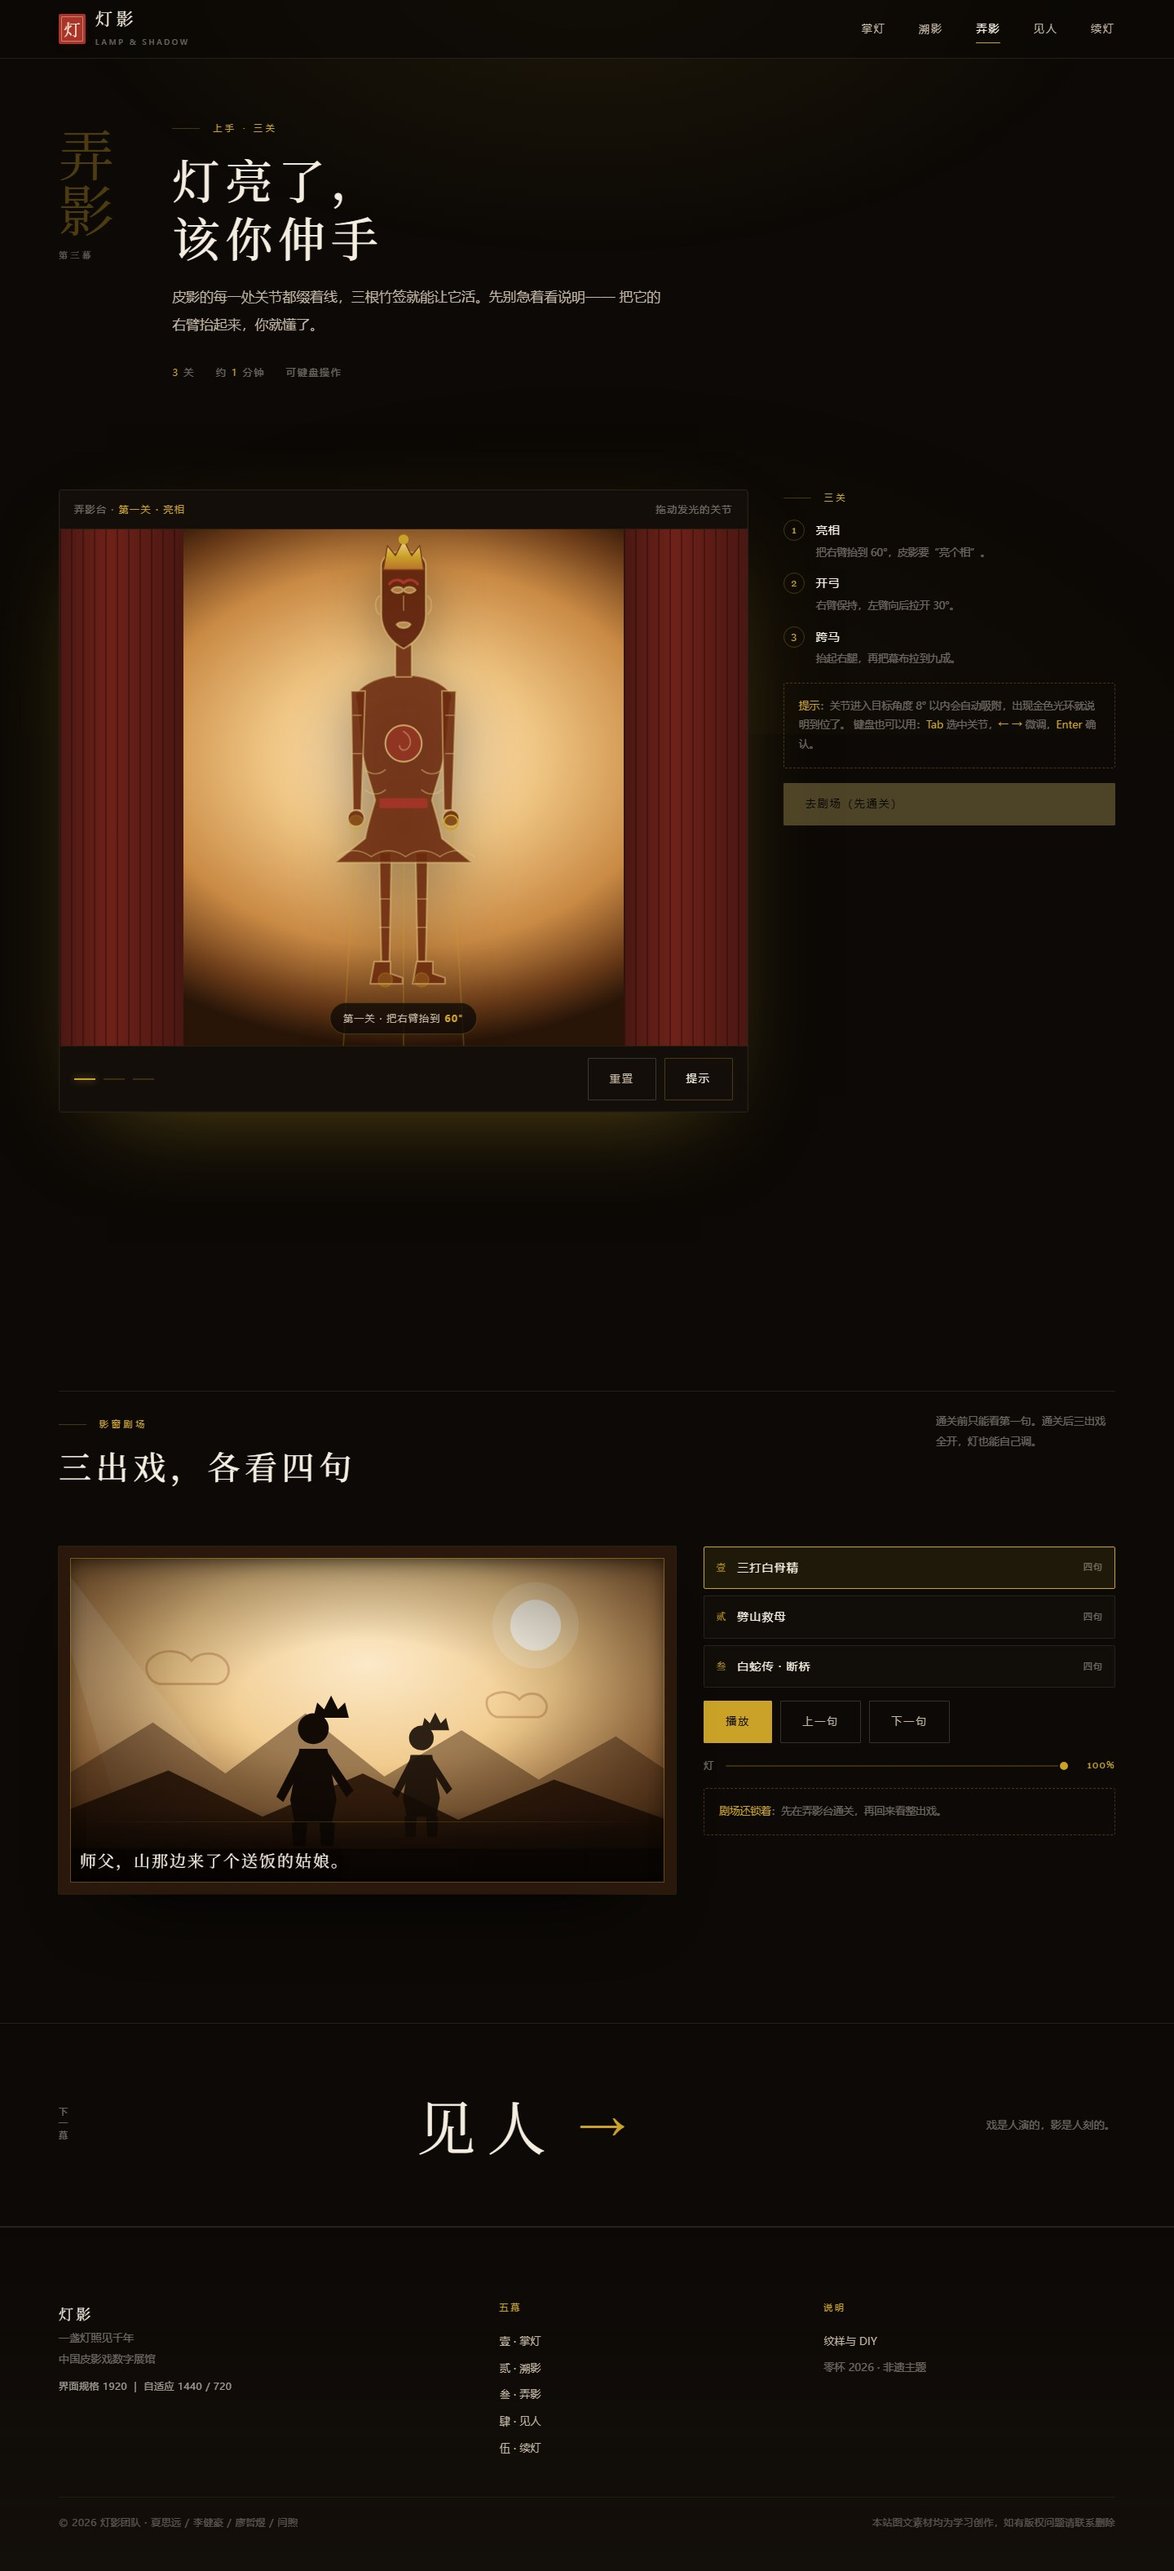
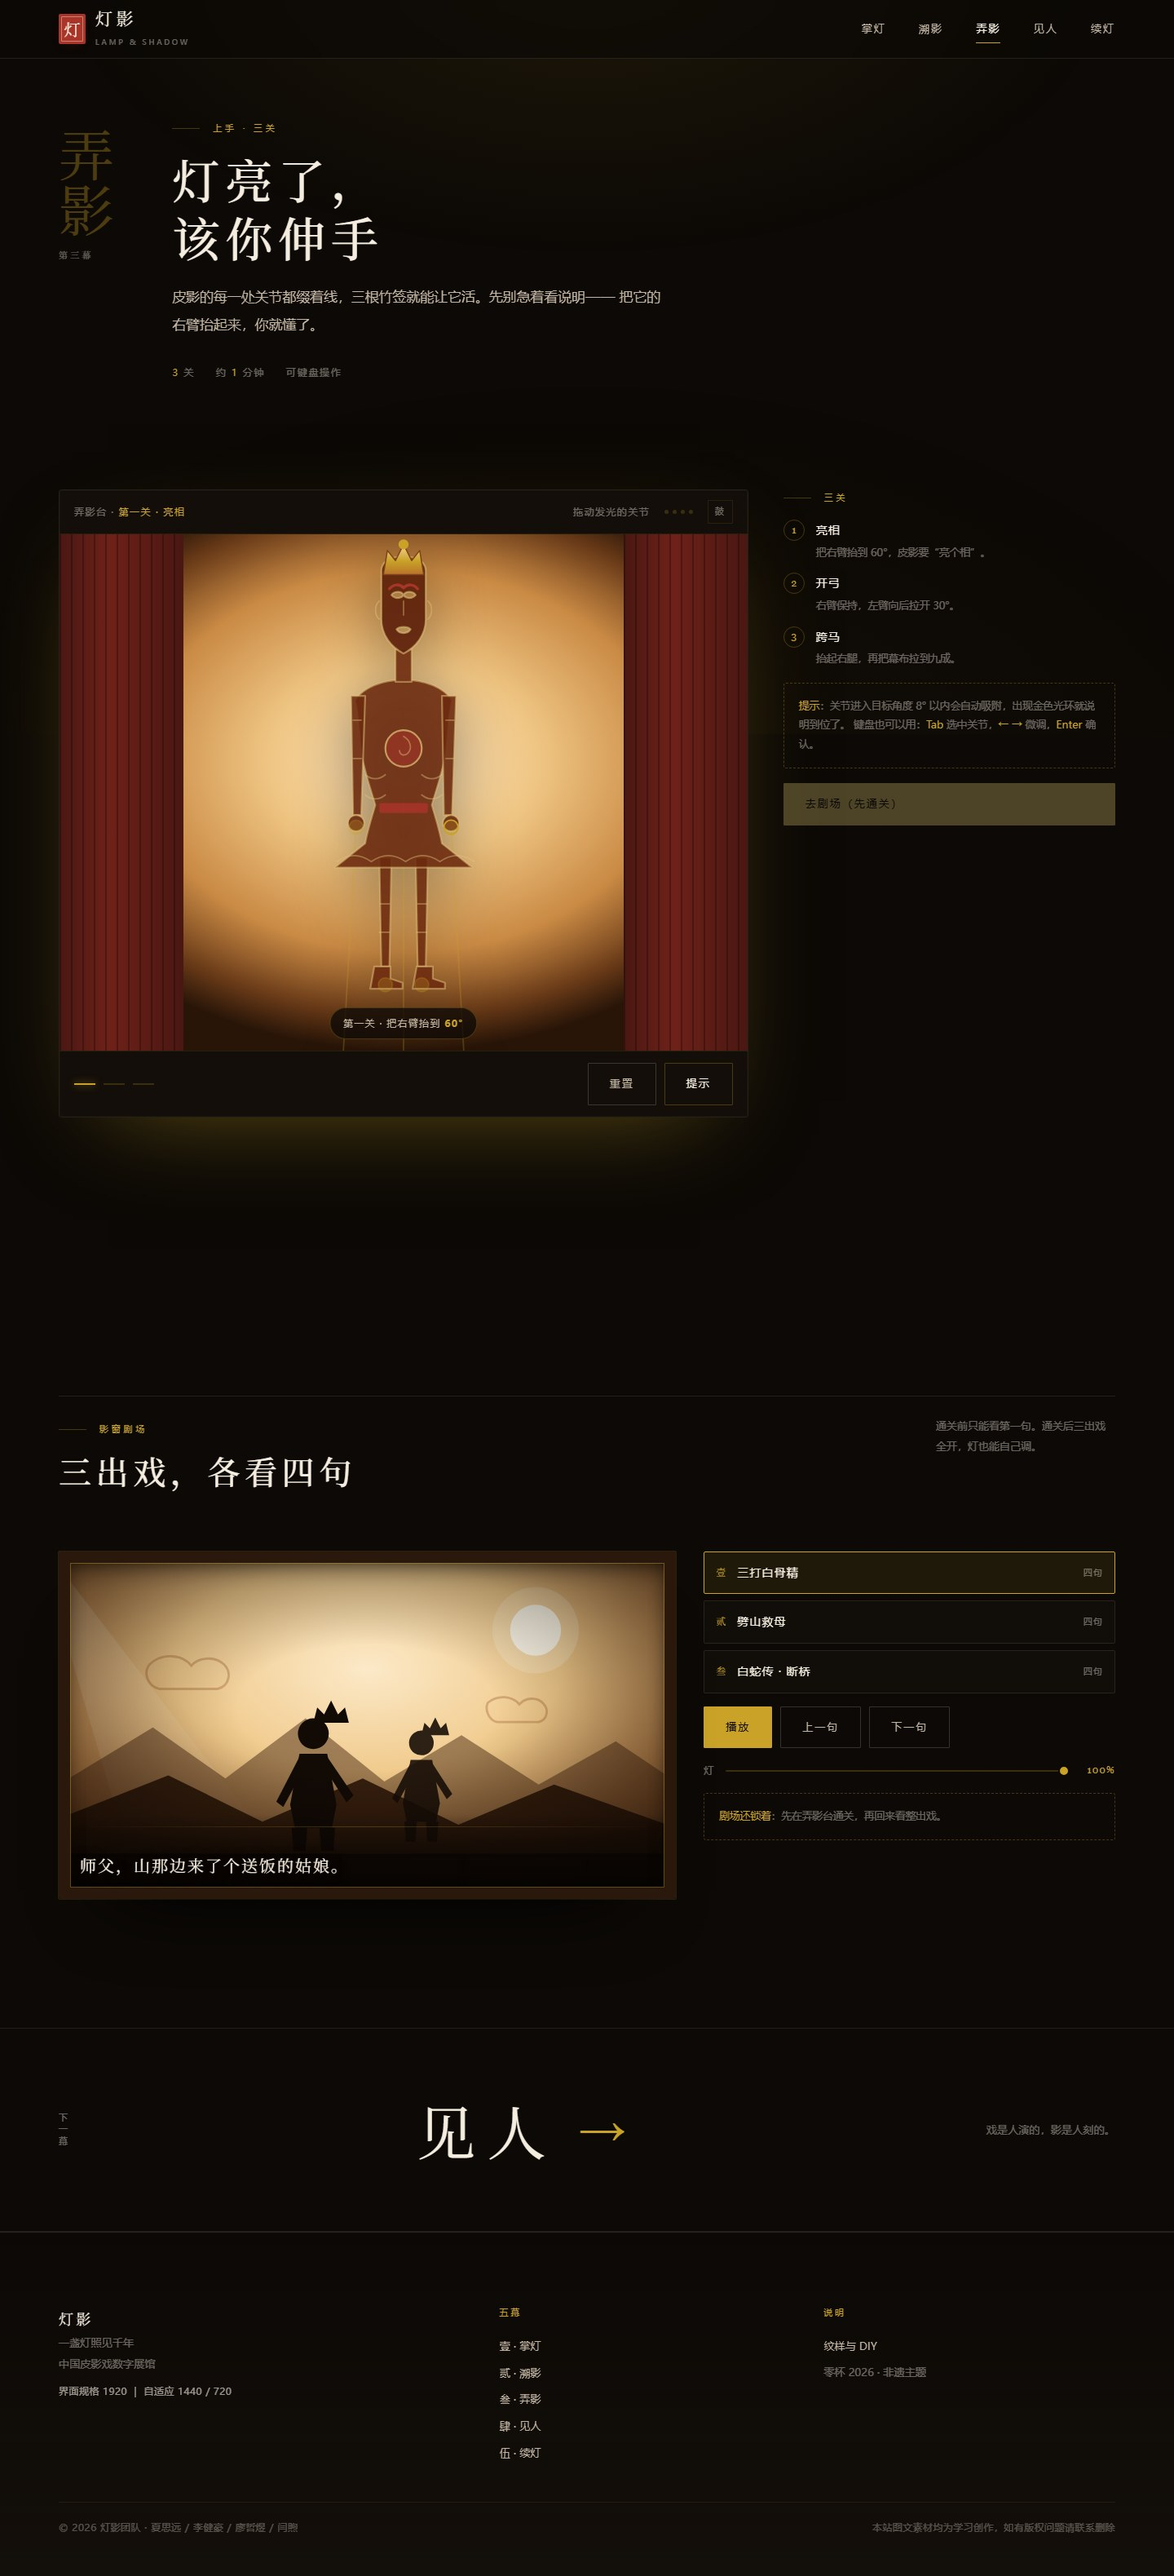
feat: 弄影台鼓点判定与评级结算
- 新增 90BPM 拍点时钟：四拍指示灯 + 可开关的 Web Audio 合成鼓声（无音频文件）
- 每关按与最近鼓点的时差判定 准(<=120ms)/良(<=280ms)/失，连击累加加分
- 结算按三关成绩评甲乙丙三等，结果写入 localStorage.playResult
- 判定用绝对浮层显示大字 + 连击数，1 秒后自动淡出
- 回归：30 组审计 0 报错 0 溢出；键盘通关 passed=true，实测 2 准 1 良 = 290 分乙等

diff --git a/web/assets/js/stage.js b/web/assets/js/stage.js
@@ -23,11 +23,21 @@
   var joints = Array.prototype.slice.call(svg.querySelectorAll(".joint"));
   var stickArmL = document.getElementById("stickArmL");
   var stickArmR = document.getElementById("stickArmR");
+  var beatPips = document.getElementById("beatPips");
+  var soundBtn = document.getElementById("soundBtn");
+  var judgeEl = document.getElementById("judge");
+  var finalBox = document.getElementById("stageFinal");
+  var finalRank = document.getElementById("finalRank");
+  var finalNote = document.getElementById("finalNote");
 
   var SNAP = 8;            /* 吸附阈值（度） */
   var CURTAIN_TARGET = 88; /* 第三关：幕布拉开到 88% */
   var CURTAIN_START = 64;  /* 初始两侧各留 18% 作为台口 */
-  var state = { level: 0, rot: {}, open: CURTAIN_START, passed: false, busy: false };
+  var BEAT_MS = 667;       /* 90 BPM，一拍 667ms */
+  var state = {
+    level: 0, rot: {}, open: CURTAIN_START, passed: false, busy: false,
+    sound: false, grades: [], combo: 0, score: 0
+  };
 
   var LEVELS = [
     {
@@ -105,6 +115,76 @@
 
   function currentLevel() { return LEVELS[state.level]; }
 
+  /* ---------- 鼓点与判定 ---------- */
+  var beatStart = 0, beatTimer = null, beatCount = 0, audioCtx = null;
+
+  function paintBeat(n) {
+    if (!beatPips) return;
+    var pips = beatPips.children;
+    for (var i = 0; i < pips.length; i++) {
+      pips[i].classList.toggle("is-on", i === (n % 4));
+    }
+  }
+
+  function startBeat() {
+    if (beatStart) return;
+    beatStart = performance.now();
+    paintBeat(0);
+    beatTimer = window.setInterval(function () {
+      beatCount += 1;
+      paintBeat(beatCount);
+      clickTick(beatCount % 4 === 0);
+    }, BEAT_MS);
+  }
+
+  /* 距离最近一拍的时间差（毫秒） */
+  function beatPhase() {
+    if (!beatStart) return 999;
+    var t = (performance.now() - beatStart) % BEAT_MS;
+    return Math.min(t, BEAT_MS - t);
+  }
+
+  function clickTick(strong) {
+    if (!state.sound || !audioCtx) return;
+    var t = audioCtx.currentTime;
+    var osc = audioCtx.createOscillator();
+    var gain = audioCtx.createGain();
+    osc.type = "triangle";
+    osc.frequency.setValueAtTime(strong ? 880 : 640, t);
+    osc.frequency.exponentialRampToValueAtTime(strong ? 520 : 420, t + 0.09);
+    gain.gain.setValueAtTime(0.0001, t);
+    gain.gain.exponentialRampToValueAtTime(strong ? 0.09 : 0.05, t + 0.01);
+    gain.gain.exponentialRampToValueAtTime(0.0001, t + 0.13);
+    osc.connect(gain);
+    gain.connect(audioCtx.destination);
+    osc.start(t);
+    osc.stop(t + 0.15);
+  }
+
+  function showJudge(grade) {
+    if (!judgeEl) return;
+    judgeEl.className = "judge" + (grade === "准" ? " is-perfect" : grade === "失" ? " is-miss" : "");
+    judgeEl.innerHTML = "<b>" + grade + "</b>" + (state.combo > 1 ? "<span>连 " + state.combo + "</span>" : "");
+    void judgeEl.offsetWidth;
+    judgeEl.classList.add("is-show");
+  }
+
+  /* 每吸附一个关节判定一次：离鼓点越近分越高 */
+  function judgeSnap(name) {
+    startBeat();
+    var d = beatPhase();
+    var grade = d <= 120 ? "准" : d <= 280 ? "良" : "失";
+    state.grades.push({ name: name, grade: grade });
+    if (grade === "失") {
+      state.combo = 0;
+    } else {
+      state.combo += 1;
+    }
+    state.score += grade === "准" ? 100 : grade === "良" ? 60 : 20;
+    if (state.combo > 1) state.score += (state.combo - 1) * 10;
+    showJudge(grade);
+  }
+
   function isTargetMet(name) {
     var lv = currentLevel();
     return typeof lv.targets[name] === "number" && Math.abs(state.rot[name] - lv.targets[name]) <= SNAP;
@@ -138,6 +218,7 @@
     if (!ok) return;
 
     state.busy = true;
+    judgeSnap(lv.name);          /* 每过一关判定一次：是否踩在鼓点上 */
     stamp.classList.remove("is-fire");
     void stamp.offsetWidth;
     stamp.classList.add("is-fire");
@@ -159,10 +240,31 @@
     state.passed = true;
     state.busy = false;
     stepItems.forEach(function (it) { it.classList.add("is-done"); });
-    lockNote.innerHTML = "<b>通关</b>：影窗剧场已解锁。三出戏都可以看了，灯也能自己调。";
+
+    var perfect = 0, good = 0, miss = 0;
+    state.grades.forEach(function (g) {
+      if (g.grade === "准") perfect += 1;
+      else if (g.grade === "良") good += 1;
+      else miss += 1;
+    });
+    var rank = "丙";
+    if (perfect >= 3) rank = "甲";
+    else if (perfect + good >= 2 && miss <= 1) rank = "乙";
+    var label = { "甲": "满堂彩", "乙": "叫好", "丙": "还行" }[rank];
+
+    lockNote.innerHTML = "<b>通关 · " + rank + " 等</b>：" + label + "。" +
+      "准 " + perfect + " · 良 " + good + " · 失 " + miss + "（" + state.score + " 分）。影窗剧场已解锁。";
+    if (finalRank && finalNote && finalBox) {
+      finalRank.textContent = rank;
+      finalNote.textContent = label + " ｜ " + state.score + " 分";
+      finalBox.hidden = false;
+    }
     toTheater.setAttribute("aria-disabled", "false");
     toTheater.textContent = "去剧场 →";
-    try { localStorage.setItem("playPassed", "1"); } catch (e) { /* 忽略 */ }
+    try {
+      localStorage.setItem("playPassed", "1");
+      localStorage.setItem("playResult", JSON.stringify({ rank: rank, score: state.score, perfect: perfect, good: good, miss: miss }));
+    } catch (e) { /* 忽略 */ }
     if (window.LampTheater && window.LampTheater.unlock) window.LampTheater.unlock();
   }
 
@@ -177,6 +279,7 @@
       var p = svgPoint(e);
       if (!p) return;
       e.preventDefault();
+      startBeat();
       el.classList.add("is-active");
       el.setPointerCapture(e.pointerId);
       drag = {
@@ -230,6 +333,7 @@
     /* 键盘：方向键微调，Enter 确认吸附 */
     el.addEventListener("keydown", function (e) {
       if (el.getAttribute("aria-disabled") === "true" || state.busy) return;
+      startBeat();
       var step = e.shiftKey ? 5 : 1;
       var cur = state.rot[name] || 0;
       if (e.key === "ArrowRight" || e.key === "ArrowUp") {
@@ -243,8 +347,10 @@
         var target = currentLevel().targets[name];
         if (typeof target === "number" && Math.abs(cur - target) <= 14) {
           setRot(name, target);
-          el.classList.add("is-snapped");
-          spring(el);
+          if (!el.classList.contains("is-snapped")) {
+            el.classList.add("is-snapped");
+            spring(el);
+          }
         }
       } else {
         return;
@@ -290,6 +396,10 @@
     state.open = CURTAIN_START;
     state.busy = false;
     state.passed = false;
+    state.grades = [];
+    state.combo = 0;
+    state.score = 0;
+    if (finalBox) finalBox.hidden = true;
     ["armL", "armR", "legL", "legR"].forEach(function (n) { setRot(n, 0); });
     joints.forEach(function (el) { el.classList.remove("is-snapped", "is-active", "is-hint"); });
     stage.style.setProperty("--open", CURTAIN_START + "%");
@@ -309,6 +419,21 @@
 
   if (resetBtn) resetBtn.addEventListener("click", reset);
   if (hintBtn) hintBtn.addEventListener("click", hintTargets);
+
+  if (soundBtn) {
+    soundBtn.addEventListener("click", function () {
+      state.sound = !state.sound;
+      soundBtn.setAttribute("aria-pressed", state.sound ? "true" : "false");
+      if (state.sound) {
+        if (!audioCtx) {
+          var AC = window.AudioContext || window.webkitAudioContext;
+          if (AC) audioCtx = new AC();
+        }
+        if (audioCtx && audioCtx.state === "suspended") audioCtx.resume();
+        startBeat();
+      }
+    });
+  }
 
   /* 静止 3 秒后，目标关节呼吸提示 */
   var idleTimer = null;

diff --git a/web/assets/css/components.css b/web/assets/css/components.css
@@ -323,6 +323,79 @@
   background: rgba(26, 20, 14, .5);
 }
 .stage__bar b { color: var(--lamp); font-weight: 500; }
+.stage__tools { display: flex; align-items: center; gap: clamp(10px, 1.4vw, 18px); }
+
+/* 鼓点指示：四拍一轮，跟着节拍亮 */
+.beat { display: flex; align-items: center; gap: 5px; }
+.beat i {
+  width: 5px;
+  height: 5px;
+  border-radius: 50%;
+  background: rgba(201, 162, 39, .22);
+  transition: background .1s linear, transform .1s linear, box-shadow .1s linear;
+}
+.beat i.is-on {
+  background: var(--lamp);
+  transform: scale(1.7);
+  box-shadow: 0 0 8px rgba(201, 162, 39, .75);
+}
+.stage__sound {
+  border: 1px solid var(--line);
+  background: none;
+  color: var(--paper-faint);
+  font-size: var(--fs-micro);
+  letter-spacing: .14em;
+  padding: 3px 8px;
+  border-radius: var(--r-sm);
+  transition: color var(--t-base) var(--ease), border-color var(--t-base) var(--ease);
+}
+.stage__sound[aria-pressed="true"] { color: var(--lamp); border-color: var(--line-strong); }
+
+/* 判定：准 / 良 / 失 */
+.judge {
+  position: absolute;
+  left: 50%;
+  top: 32%;
+  transform: translate(-50%, -50%);
+  display: flex;
+  align-items: baseline;
+  gap: 10px;
+  pointer-events: none;
+  opacity: 0;
+  z-index: 9;
+  font-family: var(--serif);
+}
+.judge b { font-size: 44px; font-weight: 500; letter-spacing: .12em; color: var(--lamp); text-shadow: 0 6px 26px rgba(0, 0, 0, .55); }
+.judge span { font-size: 12px; letter-spacing: .22em; color: var(--paper-dim); }
+.judge.is-perfect b { color: var(--lamp-hot); }
+.judge.is-miss b { color: rgba(244, 237, 224, .45); }
+.judge.is-show { animation: judgePop .95s var(--ease-out) forwards; }
+@keyframes judgePop {
+  0% { opacity: 0; transform: translate(-50%, -50%) scale(.82); }
+  22% { opacity: 1; transform: translate(-50%, -50%) scale(1); }
+  68% { opacity: 1; }
+  100% { opacity: 0; transform: translate(-50%, -62%) scale(1); }
+}
+
+/* 结算 */
+.stage__final {
+  position: absolute;
+  left: 50%;
+  top: 50%;
+  transform: translate(-50%, -50%);
+  display: flex;
+  flex-direction: column;
+  align-items: center;
+  gap: 10px;
+  padding: 24px 42px 22px;
+  background: rgba(10, 6, 3, .88);
+  border: 1px solid var(--line-strong);
+  box-shadow: 0 30px 70px -40px #000;
+  z-index: 10;
+}
+.stage__final[hidden] { display: none; }
+.stage__final-rank { font-family: var(--serif); font-size: 58px; line-height: 1; color: var(--cinnabar); }
+.stage__final-note { font-size: 12px; letter-spacing: .2em; color: var(--paper-dim); white-space: nowrap; }
 .stage__viewport {
   position: relative;
   aspect-ratio: 4 / 3;

diff --git a/web/play.html b/web/play.html
@@ -68,7 +68,11 @@
           <div class="stage" id="stageEl" data-level="0">
             <div class="stage__bar">
               <span>弄影台 · <b id="levelName">第一关 · 亮相</b></span>
-              <span id="tipText">拖动发光的关节</span>
+              <span class="stage__tools">
+                <span id="tipText">拖动发光的关节</span>
+                <span class="beat" id="beatPips" aria-hidden="true"><i></i><i></i><i></i><i></i></span>
+                <button class="stage__sound" id="soundBtn" type="button" aria-pressed="false" aria-label="开关鼓点音效">鼓</button>
+              </span>
             </div>
 
             <div class="stage__viewport" id="viewport">
@@ -155,6 +159,11 @@
               <button class="stage__grip stage__grip--r" id="gripR" type="button" aria-label="拖动拉开幕布">幕</button>
 
               <div class="stage__stamp" id="stamp" aria-hidden="true">成</div>
+              <div class="judge" id="judge" aria-live="polite"></div>
+              <div class="stage__final" id="stageFinal" hidden>
+                <span class="stage__final-rank" id="finalRank">甲</span>
+                <span class="stage__final-note" id="finalNote"></span>
+              </div>
               <div class="stage__hint" id="stageHint">第一关 · 把右臂抬到 <b>60°</b></div>
             </div>
 

diff --git a/README.md b/README.md
@@ -37,7 +37,7 @@
 ## 三、亮点功能
 
 1. **点灯开场**：首屏是暗的。只有一盏没点燃的灯和一句"灯亮起来，皮影才活"。点击之后，整站亮起，皮影从幕布后浮出——把"进入网站"变成"点亮一盏灯"。
-2. **弄影台（核心交互）**：三关拖拽，1 分钟内可通关。4 个可操作关节、±8° 吸附、金色光环反馈、反向阻尼手感；通关后印章落下，解锁剧场。键盘也能玩：`Tab` 选中关节，`←/→` 微调，`Shift` 加速。
+2. **弄影台（核心交互）**：三关拖拽，1 分钟内可通关。4 个可操作关节、±8° 吸附、金色光环反馈、反向阻尼手感；每关结算按**与鼓点的贴合度**判「准 / 良 / 失」，连击加分，最终评甲乙丙三等（结果存在本地）。鼓点可开关，音效用 Web Audio 实时合成、不加载任何音频文件。键盘也能玩：`Tab` 选中关节，`←/→` 微调，`Shift` 加速。
 3. **影窗剧场**：三出经典剧目片段，字幕逐字浮现，灯箱亮度可调（30%–100%）；暗下来时字幕自动加亮，保持可读。
 4. **七道工序**：选皮、制皮、画稿、镂刻、敷彩、发汗熨平、缀结——点开"镂刻"能看到刀口细节，用细节证明"我们真的查过"。
 5. **可带走**：纹样库 8 枚可下载 SVG；DIY 皮影可换头型、换纹样、换配色，并导出 PNG。
@@ -208,6 +208,7 @@ node tools/anonymize.mjs web dist/匿名版
 | 2026-10-20 | M1+：全站视觉重构 v2「宋刻暗金」——更深的墨与更哑的旧金、字阶与间距重排、入口/流派/印章去色块改细线、按钮与标签去圆角 |
 | 2026-10-20 | M1++：组件层重构——七道工序改刻本式表格、工具墙改实物陈列排（说明常显）、传承人卡改档案照式证件框 |
 | 2026-10-20 | M1+++：影窗加木框与金线、剧场场景重绘（月/云/三层山/栏杆/双影人，三出戏各有晕色与点缀）、纹样卡加暖底与宋体名 |
+| 2026-10-20 | M2：弄影台加入鼓点判定（准/良/失 + 连击 + 甲乙丙评级）、拍点指示灯与可开关的合成鼓声 |
 
 ---
 
